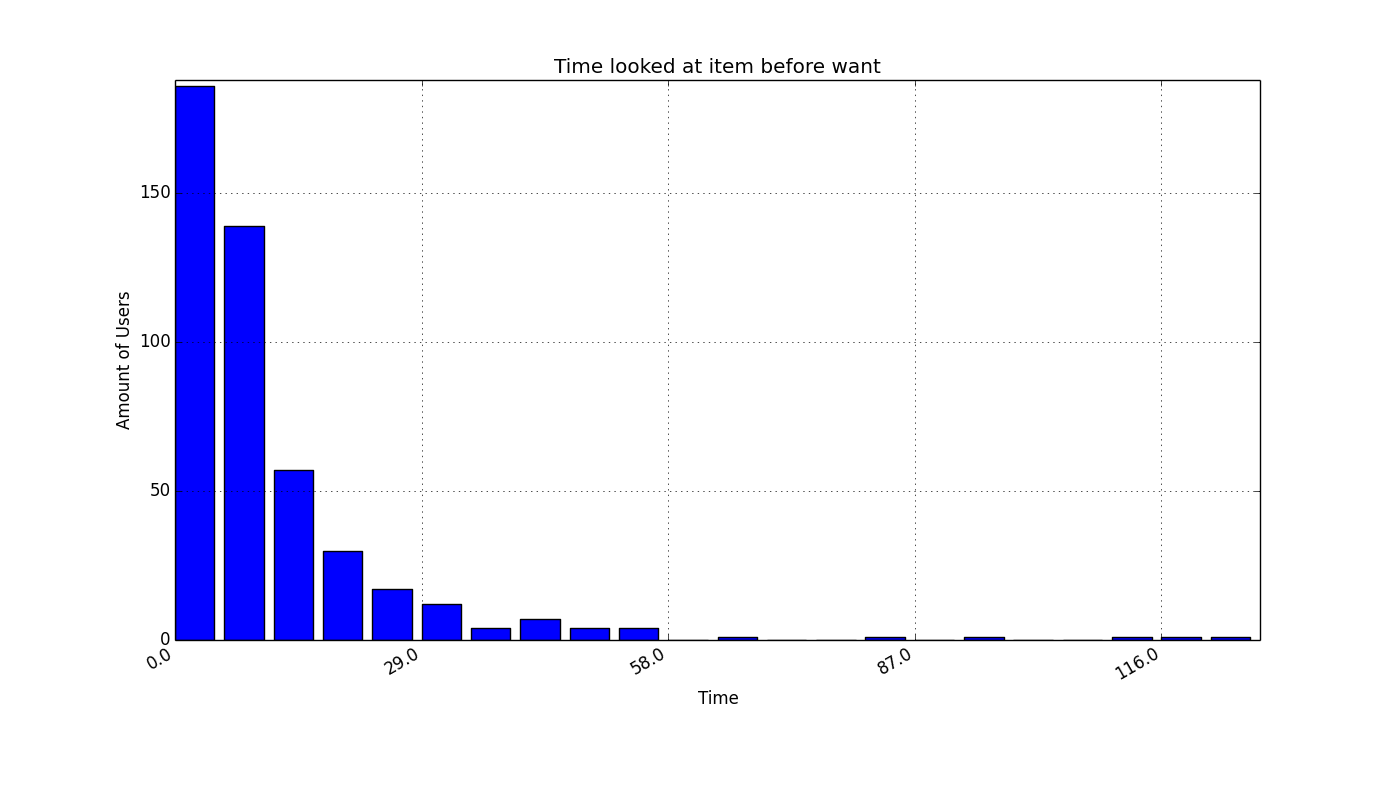
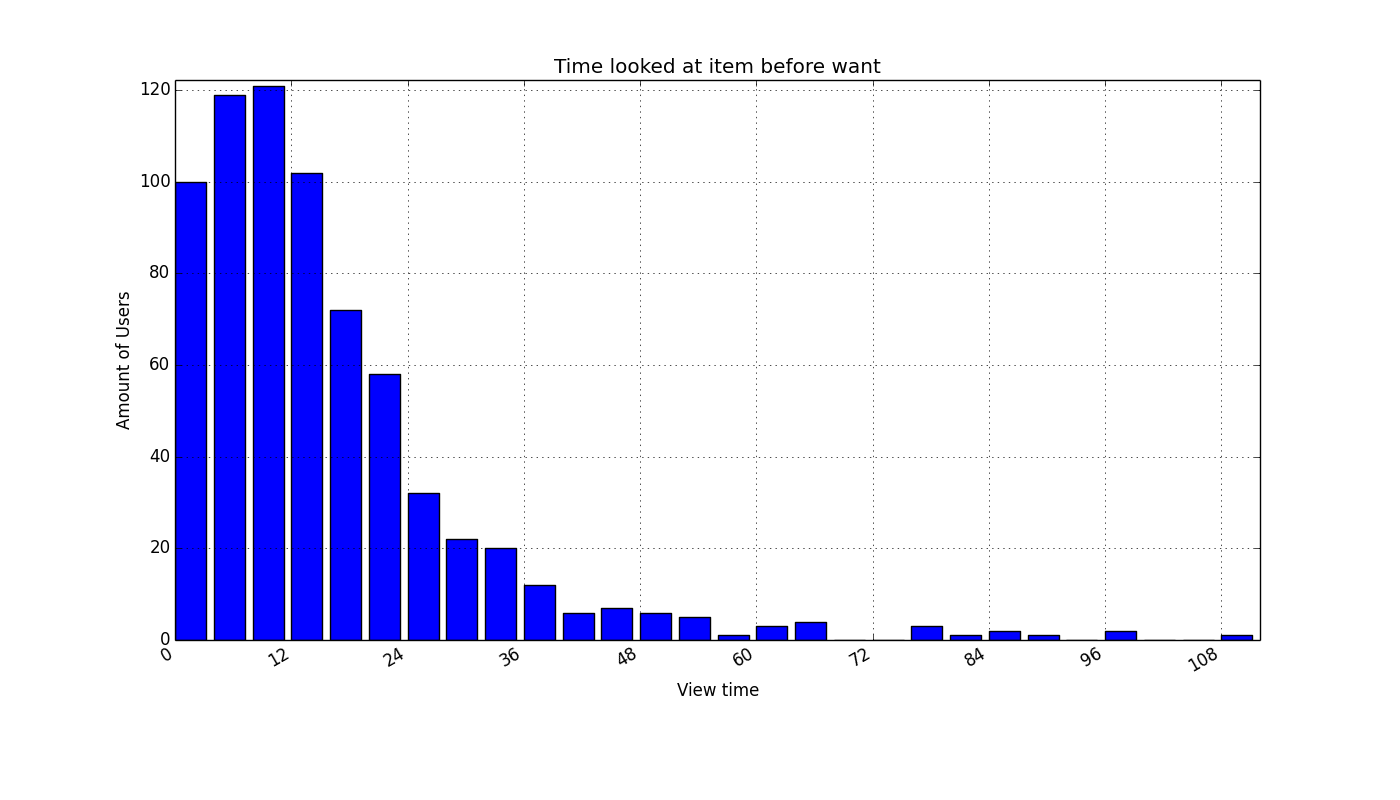
figures

Changed region(s): [[0.0921, 0.0938, 0.8907, 0.875], [0.0921, 0.8125, 0.1229, 0.8438]]

diff --git a/src/masterChapters/02-soBazarData.tex b/src/masterChapters/02-soBazarData.tex
@@ -306,21 +306,21 @@
         This means that there will not be more than 10 events for the majority of the items, which might lead to an issue when doing collaborative filtering on the data.
         When the majority of the events only has 10 events and there are over 4 000 items and 1 200 users, the probability that multiple users have interacted with similar items will be low.}
     \end{figure}
-	
+
 	\marginpar{Long tail vs Pareto principle}
-	    
+
 	    For a given distribution such as sales of a catalog of items, when the Pareto principle applies, the first 20\% of the item hits account for 80\% of sales.
-	    
+
 	    or
-	    
+
 	    Long tail: the most frequent-occurring items represent less than 50\% of the occurrences in the logs.
-	
-	
+
+
 
     %mtodo - update numbers
 	\marginpar{First to last event in days/weeks not minutes, remove text on a-axis (only confusing). Why is this important, clearify text, what can we learn from the plots?}
     \begin{figure}[H]
-        \includegraphics[width=5in]{image/item-timespan-event-count.png}
+        \includegraphics[width=5in]{image/itemTimeSpansortedoneventcount.png}
         \centering
         \caption[Life time of items mapped with event count]{This figure shows the total life span of each item mapped together with the amount of events triggered on them.
         The life span of an item is the time since the first event on the item till the last event on the item.
@@ -328,12 +328,12 @@
         Even though an item has had a long time span does not mean that the item has been of measurable interest to the users in the SoBazaar application.}
         \label{figure:itemTimeSpanEventCount}
     \end{figure}
-   
-    
+
+
     % mtodo - si noe om hvorfor ikke? jeg vil vel påstå at dette sier no om viktihet av "nyhetsverdi" for item'et, og ville derfor trodd dette var relevant info?
 	\marginpar{TODO: Change x axis from minutes to days (or preferably weeks). Does this give us any hints regarding time decay factors?}
     \begin{figure}[H]
-        \includegraphics[width=5in]{image/time-span-count.png}
+        \includegraphics[width=5in]{image/itemTimespansdistribution.png}
         \centering
         \caption[Count of the different time spans of the items]{This figure shows the count of items which has the different time spans.
         The numbers on the x-axis is in minutes.
@@ -347,7 +347,7 @@
         % c) fordi det bare hadde 10 dagers "nyhetsverdi"?
 	\marginpar{TODO - Use seconds?}
     \begin{figure}[H]
-        \includegraphics[width=5in]{image/bounceRate.png}
+        \includegraphics[width=5in]{image/product_detail_clickeddistribution.png}
         \centering
         \caption[View time before leaving an item (Bounce Rate)]{This figure shows the time the users use before not taking any more action towards the item (purchase it or want it).
         The time is in milliseconds.
@@ -358,7 +358,7 @@
     % mtodo - hva betyr dette for oss? ha det i seconds, lol
 
     \begin{figure}[H]
-        \includegraphics[width=5in]{image/viewBeforeWant.png}
+        \includegraphics[width=5in]{image/product_wanteddistribution.png}
         \centering
         \caption[View time before wanting an item]{This figure shows the time the users use before wanting the currently viewed item.
         The time is in milliseconds.
